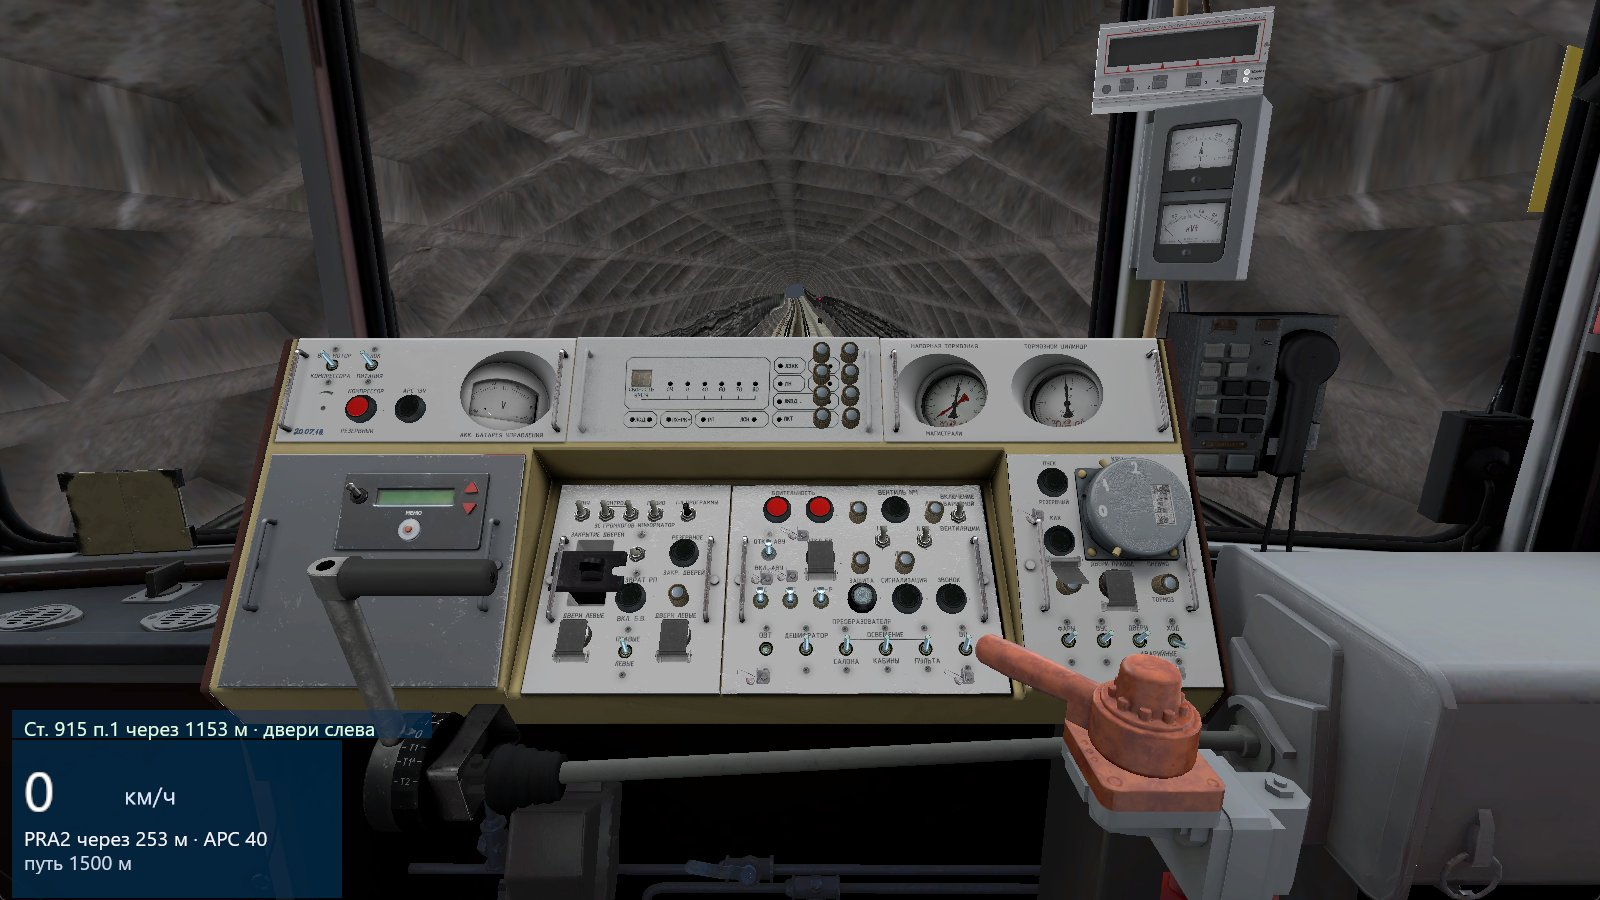
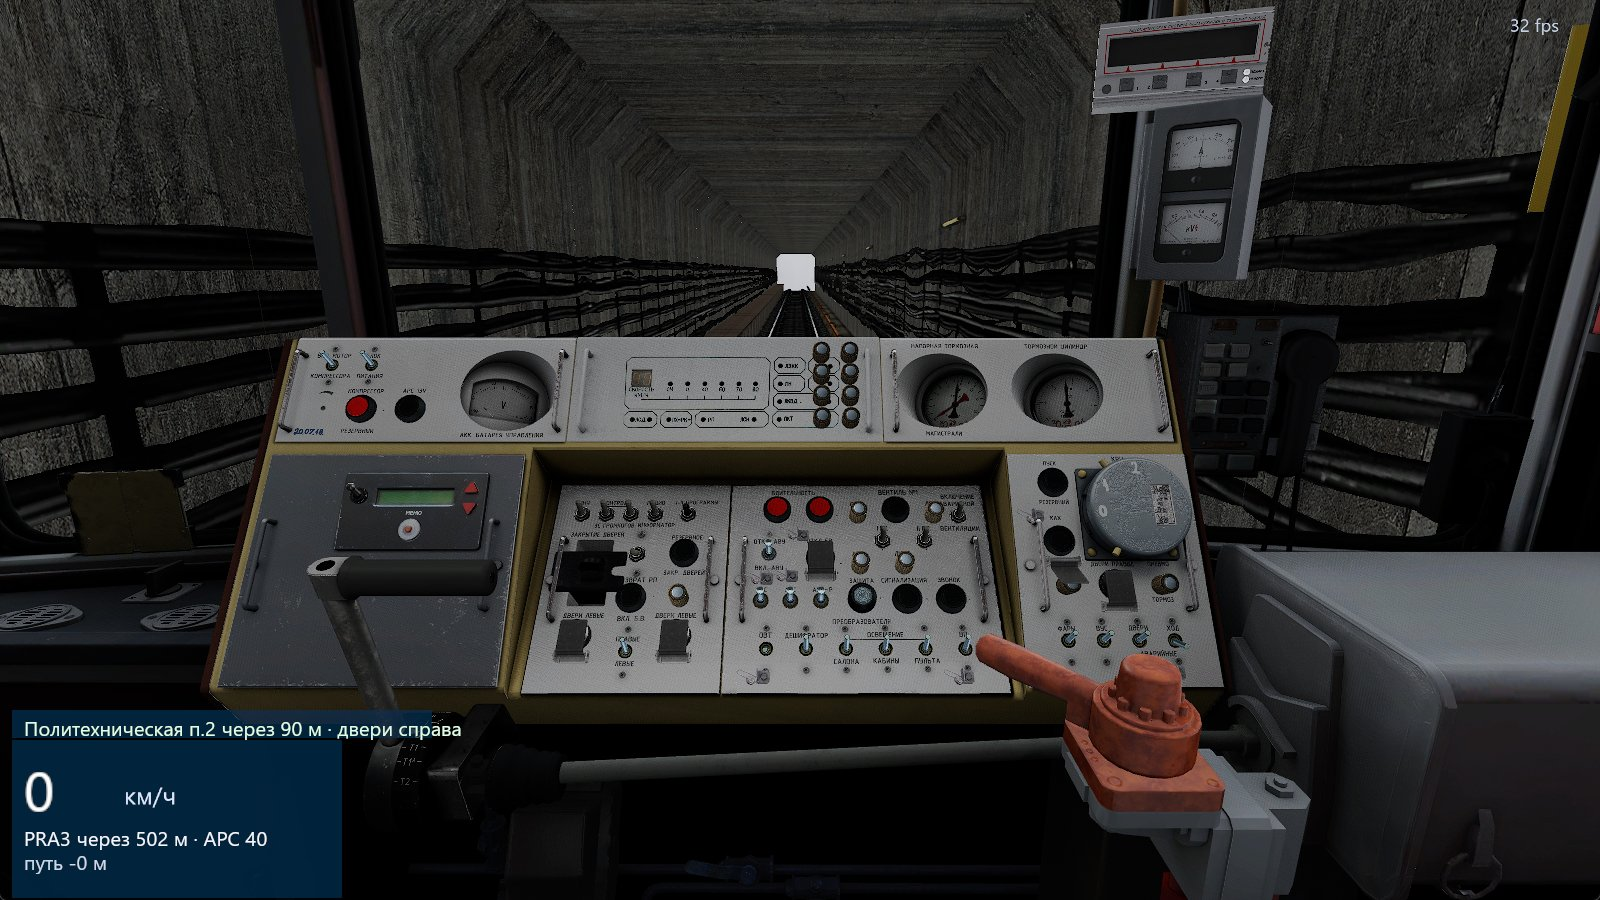
Site: tunnel screenshot at the corrected car height (ultra)

diff --git a/docs/index.html b/docs/index.html
@@ -149,7 +149,7 @@ footer { margin-top: 80px; padding: 30px 0 50px; border-top: 1px solid var(--lin
     <p class="sub">Снято в самой программе. Нажмите, чтобы увеличить. Поверхности карты без текстур Half-Life 2 пока закрашены цветом-заменителем.</p>
     <div class="gallery">
       <figure><div class="imgbox"><img loading="lazy" src="img/station.jpg" alt=""></div><figcaption><b>Станция</b> — геометрия карты, лайтмапы, мраморный пол и колонны (вид с пути)</figcaption></figure>
-      <figure><div class="imgbox"><img loading="lazy" src="img/tunnel.jpg" alt=""></div><figcaption><b>Туннель</b> — модели туннеля, лайтмапы и статичные объекты карты Crossline</figcaption></figure>
+      <figure><div class="imgbox"><img loading="lazy" src="img/tunnel.jpg" alt=""></div><figcaption><b>Туннель</b> — режим «ультра»: HDR, bloom, SSAO; туннель и статичные объекты карты Crossline</figcaption></figure>
       <figure><div class="imgbox"><img loading="lazy" src="img/tooltip.jpg" alt=""></div><figcaption><b>Кабина</b> — подсказка у кнопки, HUD станции и скорости</figcaption></figure>
       <figure><div class="imgbox"><img loading="lazy" src="img/signals.jpg" alt=""></div><figcaption><b>Сигналы и блок</b> — светофоры впереди и стоящий состав за ними</figcaption></figure>
       <figure><div class="imgbox"><img loading="lazy" src="img/salon.jpg" alt=""></div><figcaption><b>Салон</b> — прогулка по вагону от первого лица</figcaption></figure>
